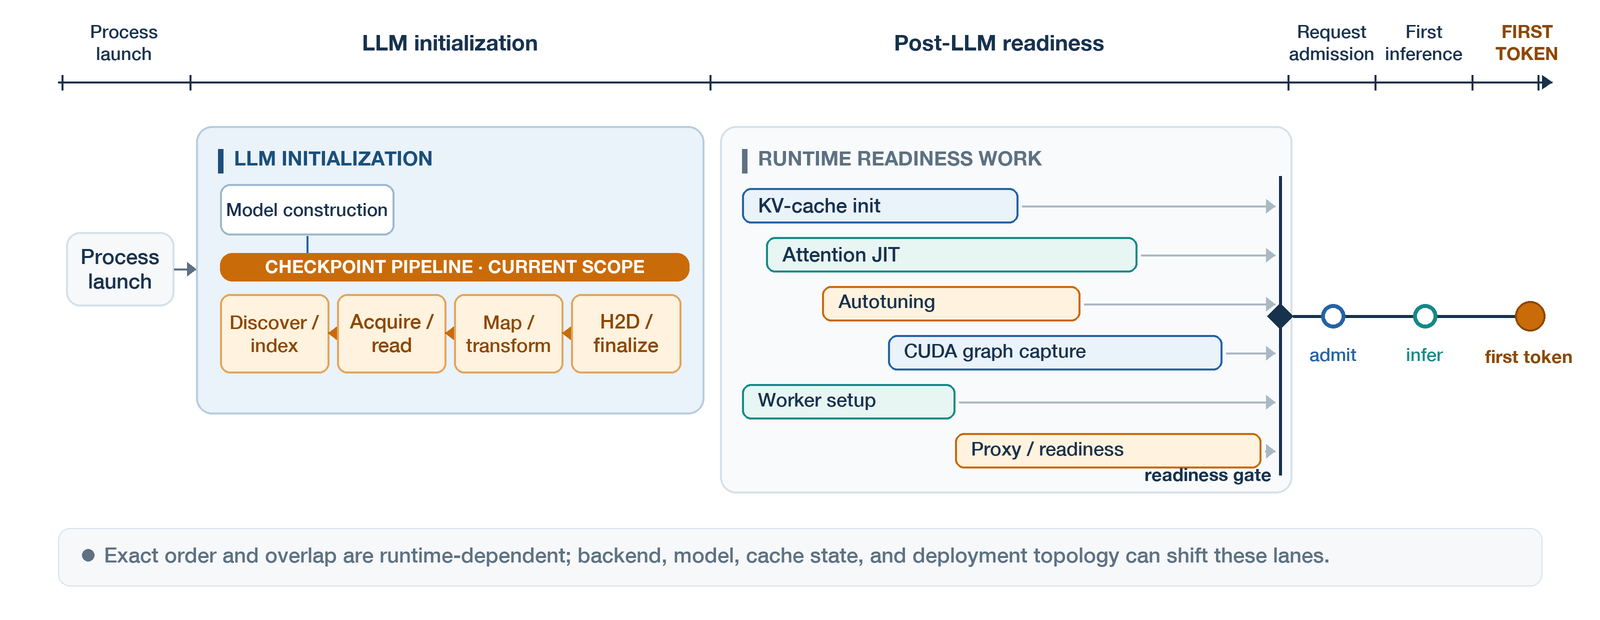
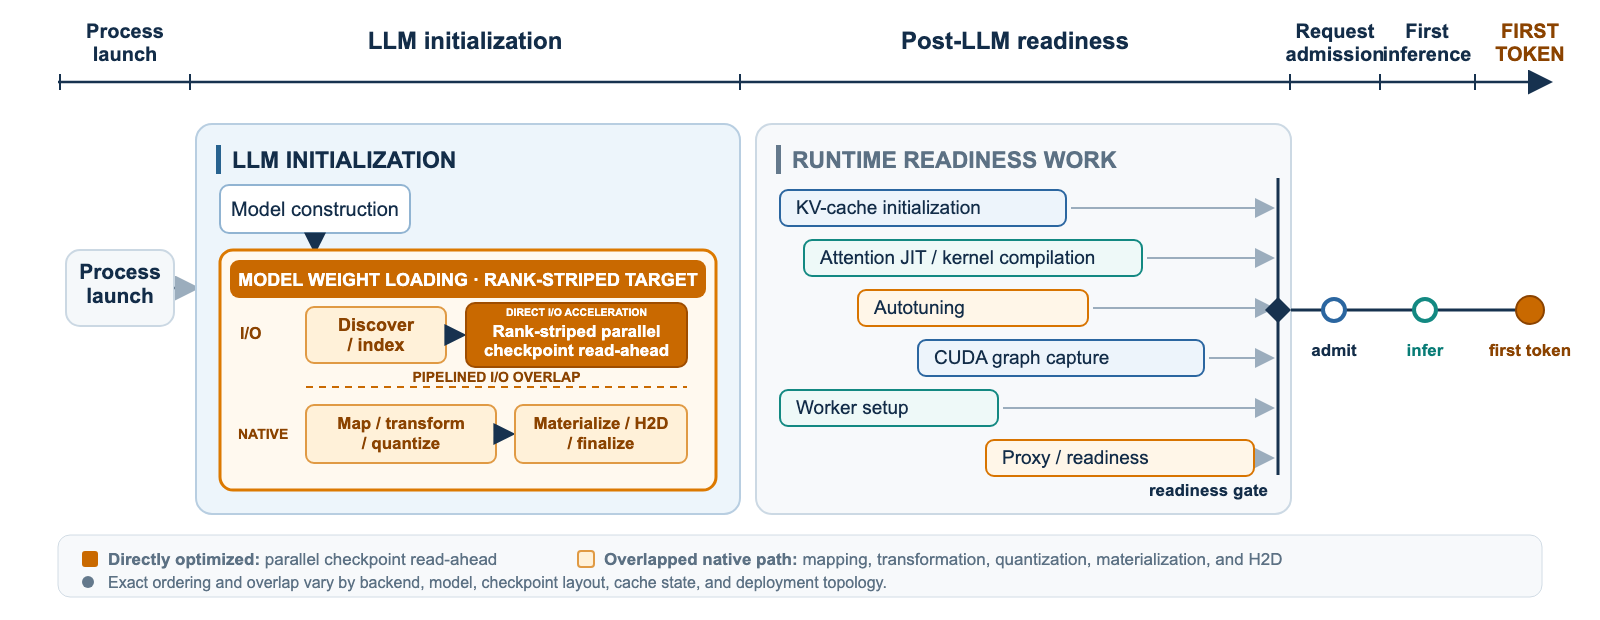
docs: clarify rank-striped startup timeline

diff --git a/docs/design/rank-cooperative-checkpoint-loading/figures/README.md b/docs/design/rank-cooperative-checkpoint-loading/figures/README.md
@@ -13,3 +13,9 @@ when an embedding surface does not accept SVG.
 RANK-STREAM steady-state workflow. It emphasizes the concurrent producer and
 consumer lanes, the node-local double buffer, and the consensus-gated slot swap.
 The matching PNG is the raster asset used by Google Docs.
+
+`startup-to-first-token-timeline.svg` is the editable vector source for the
+end-to-end startup timeline. It distinguishes the model-weight-loading phase,
+the checkpoint I/O directly accelerated by RANK-STRIPED, and the unchanged
+native materialization work that can overlap with read-ahead. The matching PNG
+is the raster asset used by Google Docs.
